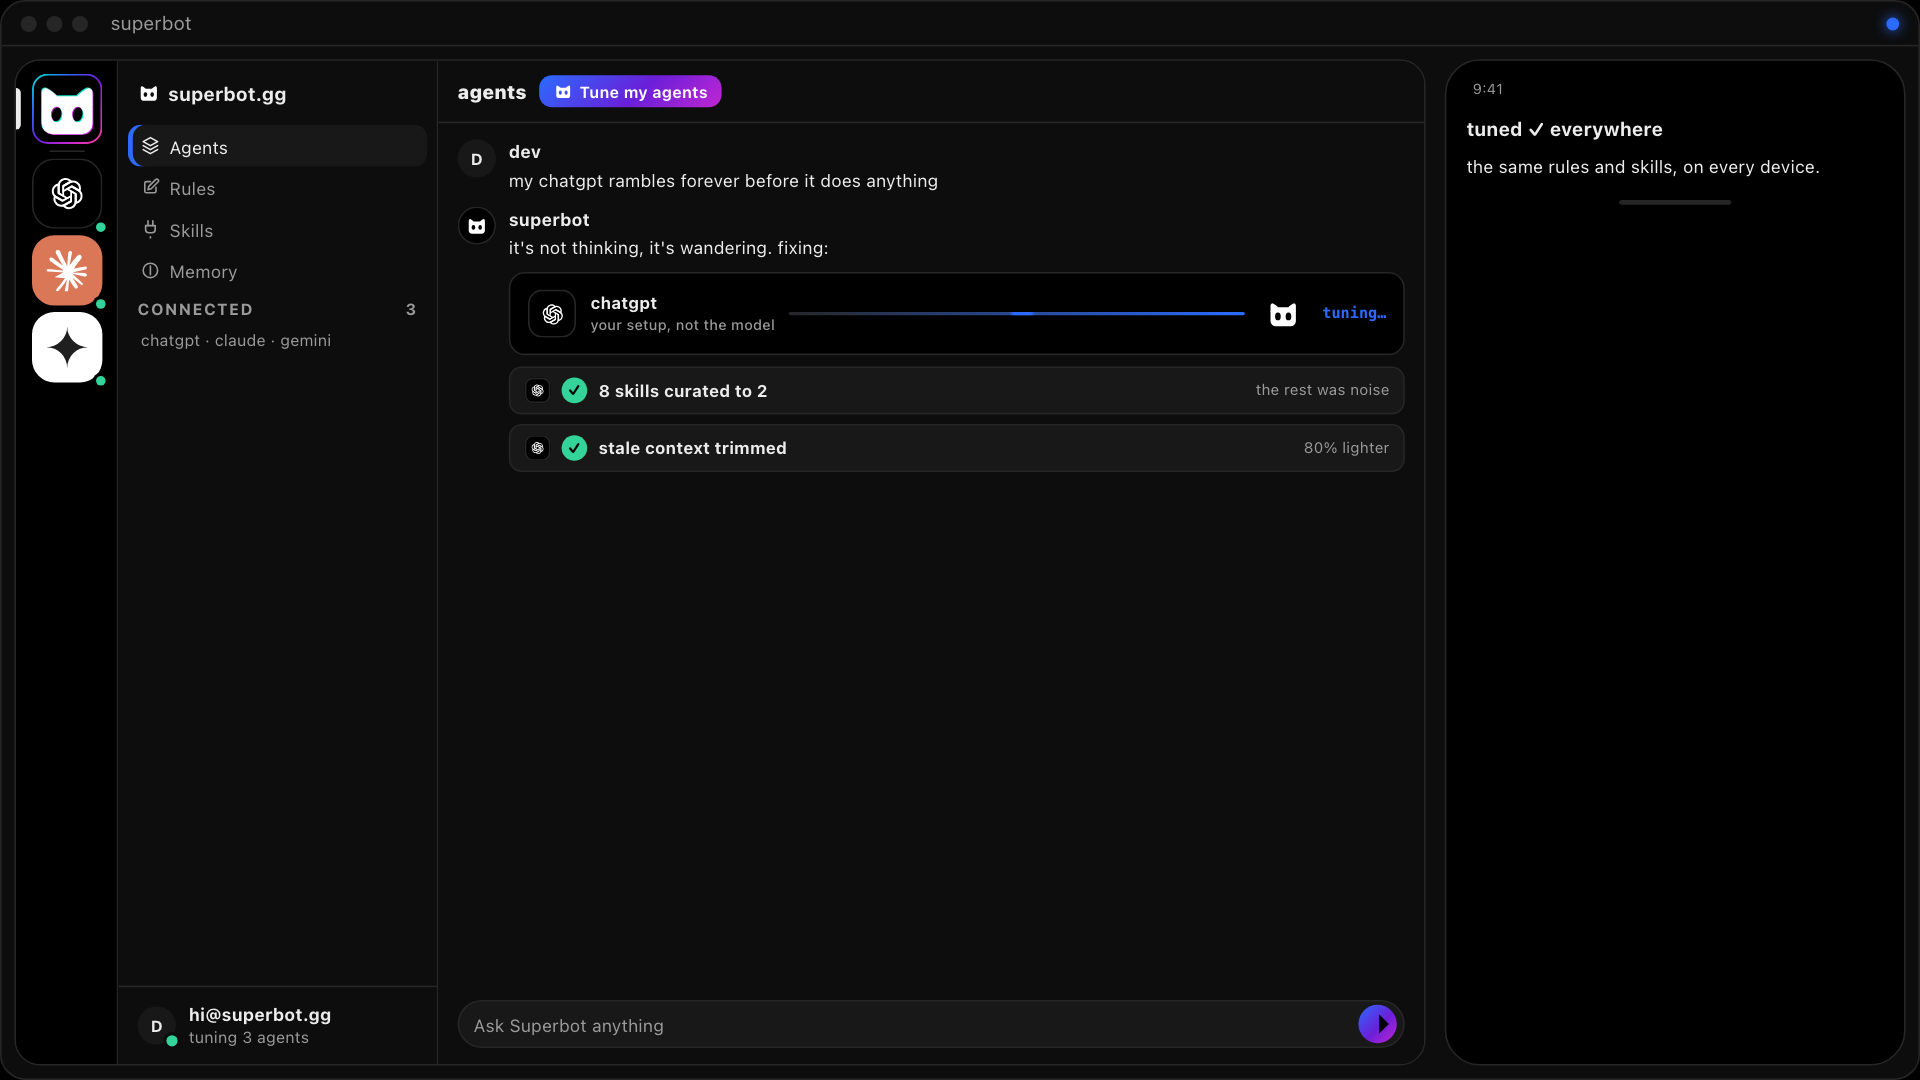
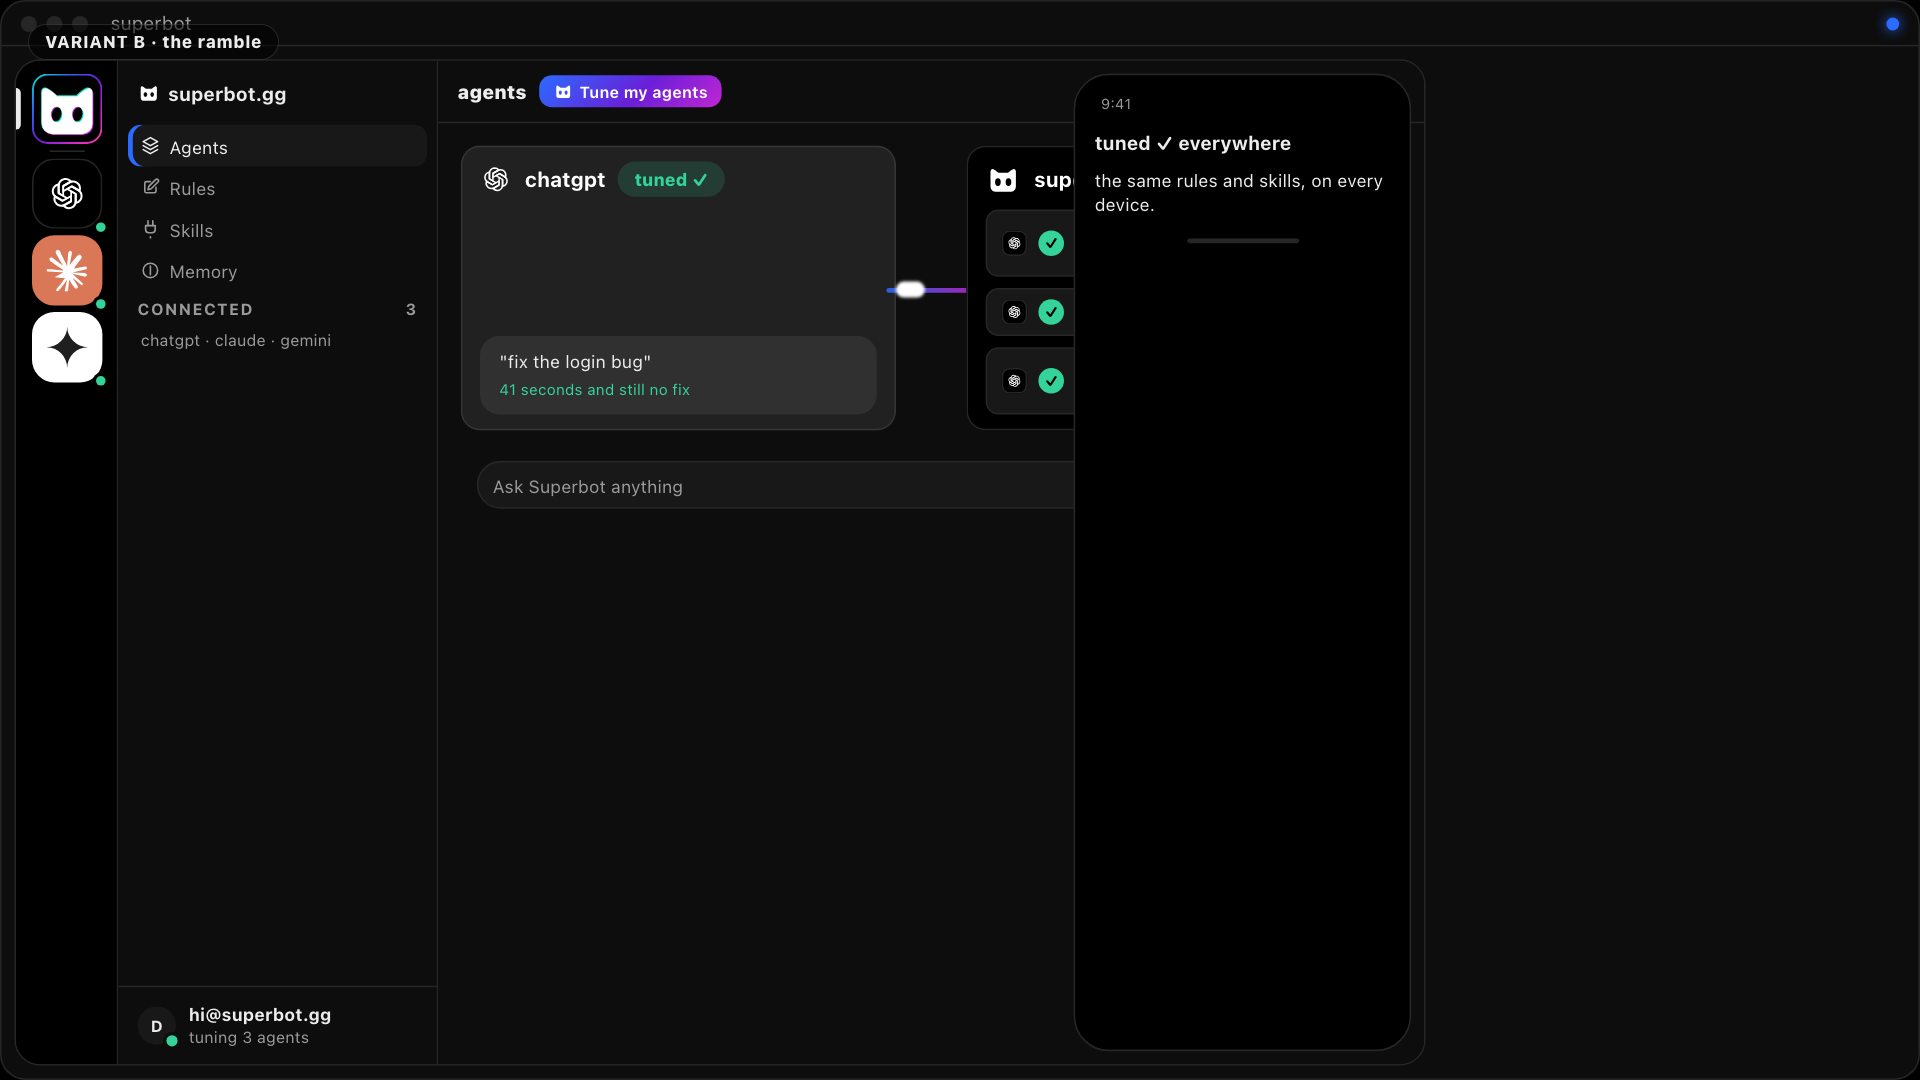
round-6 per spoken feedback ('it doesn't show superbot directly engaging', 'too much tech', 'screen showed old stuff'): the tune-up scene is now a split engage pane — a big chatgpt card (rules-ignored state, the ask quoted) wired by a flying pulse to a big superbot card where the rules/skills land o

diff --git a/animations/tuneup-rules-a-a1b6c9d3/index.html b/animations/tuneup-rules-a-a1b6c9d3/index.html
@@ -81,7 +81,7 @@ body { font-family: var(--ui); color: var(--fg); -webkit-font-smoothing: antiali
 .win-bar span { margin-left: 8px; }
 .win-bar .led { margin-left: auto; width: 8px; height: 8px; border-radius: 50%; background: var(--storm-1); box-shadow: 0 0 8px var(--storm-1); }
 .win-body { position: relative; overflow: hidden; }
-.hub { position: absolute; inset: 8px; right: calc(24% + 20px); background: var(--card); border: 1px solid var(--line); border-radius: 16px; overflow: hidden; display: grid; grid-template-columns: 64px 200px minmax(0, 1fr); font: 11px/15px var(--ui); color: var(--fg); }
+.hub { position: absolute; inset: 8px; background: var(--card); border: 1px solid var(--line); border-radius: 16px; overflow: hidden; display: grid; grid-template-columns: 64px 200px minmax(0, 1fr); font: 11px/15px var(--ui); color: var(--fg); }
 .hub > * { min-width: 0; min-height: 0; display: flex; flex-direction: column; }
 .rail { background: var(--bg); border-right: 1px solid var(--line); align-items: center; padding: 8px 0; gap: 4px; }
 .rail-item { position: relative; flex: none; width: 44px; height: 44px; border-radius: 14px; background: var(--raised); display: grid; place-items: center; color: var(--fg); }
@@ -143,11 +143,30 @@ body { font-family: var(--ui); color: var(--fg); -webkit-font-smoothing: antiali
 #h-connect.done .state { color: var(--ok); }
 #h-connect.done .wire { background: linear-gradient(90deg, var(--ok), rgba(52,211,153,.2)); }
 #h-connect.done .wire i { background: var(--ok); }
+
+/* the split engage pane: superbot visibly working inside chatgpt (owner: "show it directly engaging") */
+.engage { display: grid; grid-template-columns: 1fr 44px 1fr; align-items: stretch; gap: 0; height: 100%; padding: 4px 2px; }
+.eng-card { border-radius: 12px; padding: 10px 12px; display: flex; flex-direction: column; gap: 8px; min-width: 0; }
+.eng-card.gptside { background: #212121; box-shadow: inset 0 0 0 1px rgba(255,255,255,.09); }
+.eng-card.sb { background: #000; box-shadow: inset 0 0 0 1px var(--line); }
+.eng-head { display: flex; align-items: center; gap: 8px; font: 700 13px/16px var(--ui); color: #fff; }
+.eng-head svg { width: 20px; height: 20px; fill: #fff; }
+.eng-head img { width: 22px; height: 22px; }
+.eng-badge { display: inline-flex; align-items: center; gap: 6px; padding: 4px 10px; border-radius: 999px; font: 800 11px/14px var(--ui); width: max-content; }
+.eng-badge.bad { background: rgba(255,80,80,.14); color: #ff9d9d; }
+.eng-badge.good { background: rgba(52,211,153,.16); color: var(--ok); }
+.eng-bub { margin-top: auto; background: #303030; border-radius: 12px; padding: 8px 12px; font: 11px/15px var(--gpt-font); color: #ececec; }
+.eng-bub small { display: block; color: #afafaf; font-size: 9.5px; margin-top: 3px; }
+.eng-wire { position: relative; display: grid; place-items: center; }
+.eng-wire::before { content: ""; position: absolute; left: -6px; right: -6px; top: 50%; height: 3px; border-radius: 2px; background: linear-gradient(90deg, var(--storm-1), var(--storm-3)); opacity: .85; }
+.eng-wire i { position: absolute; top: calc(50% - 4px); width: 18px; height: 10px; border-radius: 5px; background: #fff; filter: blur(1px); }
+.eng-card.sb .tune { display: grid; gap: 7px; margin-top: 0; }
+
 .composer { flex: none; margin: 6px 12px 10px; }
 .composer .pill { display: flex; align-items: center; gap: 6px; min-height: 30px; padding: 0 4px 0 9px; border-radius: 16px; background: var(--raised); border: 1px solid var(--line); color: var(--muted); }
 .composer .ph { flex: 1; }
 .composer .send { width: 24px; height: 24px; border-radius: 50%; background: var(--storm-action); display: grid; place-items: center; color: #fff; }
-.phone { position: absolute; right: 8px; top: 8px; bottom: 8px; width: 24%; background: #000; border: 1px solid var(--line); border-radius: 22px; overflow: hidden; font: 11px/15px var(--ui); color: var(--fg); display: flex; flex-direction: column; padding: 10px 12px 8px; }
+.phone { display: none; background: #000; border: 1px solid var(--line); border-radius: 22px; overflow: hidden; font: 11px/15px var(--ui); color: var(--fg); display: flex; flex-direction: column; padding: 10px 12px 8px; }
 .ph-status { display: flex; justify-content: space-between; font-size: 9px; color: var(--muted); padding: 0 4px; }
 .ph-head { display: flex; align-items: center; gap: 8px; padding: 10px 0 8px; font-weight: 700; font-size: 12px; }
 .ph-turn { font-size: 11px; line-height: 15px; margin-bottom: 8px; }
@@ -247,21 +266,20 @@ html { --site-k: 1.6; }
             <div class="main">
               <div class="chat-head"><b>agents</b><span class="ask"><img src="assets/mark-clean.svg" alt=""/>Tune my agents</span></div>
               <div class="feed">
-                <div class="msg" id="h-user"><span class="avatar">D</span><div class="m-main"><div class="m-head"><span class="m-name">dev</span></div><div class="m-text">my chatgpt keeps breaking the rules i just gave it</div></div></div>
-                <div class="msg" id="h-bot"><span class="avatar sb"><img src="assets/mark-clean.svg" alt=""/></span><div class="m-main"><div class="m-head"><span class="m-name">superbot</span></div><div class="m-text" id="h-text"></div>
-                  <div id="h-connect">
-                    <span class="ic oa"><svg viewBox="0 0 2406 2406"><use href="#ic-openai"/></svg></span>
-                    <span class="lbl">chatgpt<small>your setup, not the model</small></span>
-                    <span class="wire"><i id="h-pulse"></i></span>
-                    <span class="ic sb"><img src="assets/mark-clean.svg" alt=""/></span>
-                    <span class="state" id="h-state">tuning…</span>
+                <div class="engage">
+                  <div class="eng-card gptside" id="eng-gpt">
+                    <div class="eng-head"><svg viewBox="0 0 2406 2406"><use href="#ic-openai"/></svg>chatgpt<span class="eng-badge bad" id="eng-badge">rules ignored</span></div>
+                    <div class="eng-bub" id="eng-bub">"add a logout button. we use tabs, zustand, never touch supabase.ts"<small id="eng-line" style="color:#ff9d9d">then it touched supabase.ts anyway</small></div>
                   </div>
-                  <div class="tune" id="h-tune">
+                  <div class="eng-wire"><i id="eng-pulse"></i></div>
+                  <div class="eng-card sb" id="eng-sb">
+                    <div class="eng-head"><img src="assets/mark-clean.svg" alt=""/>superbot</div>
+                    <div class="tune">
                     <div class="tune-row" id="t1"><span class="ai"><svg viewBox="0 0 2406 2406"><use href="#ic-openai"/></svg></span><span class="tk">✓</span><b>14 rules pulled out of chats</b><small>they were buried in scrollback</small></div>
                     <div class="tune-row" id="t2"><span class="ai"><svg viewBox="0 0 2406 2406"><use href="#ic-openai"/></svg></span><span class="tk">✓</span><b>rules enforced, not remembered</b><small>no more "got it", then ignored</small></div>
                     <div class="tune-row" id="t3"><span class="ai"><svg viewBox="0 0 2406 2406"><use href="#ic-openai"/></svg></span><span class="tk">✓</span><b>loaded into every session</b><small>every chat, every device</small></div>
                   </div>
-                </div></div>
+                </div>
               </div>
               <div class="composer"><div class="pill"><span class="ph">Ask Superbot anything</span><span class="send"><svg viewBox="0 0 24 24"><path d="M4 12h15"/><path d="m13 6 6 6-6 6"/></svg></span></div></div>
             </div>
@@ -364,8 +382,7 @@ const gpt2 = $('gpt2'), g2User = $('g2-user'), g2Bub = $('g2-bub'), g2Ai = $('g2
 const gThread = gCol.parentElement;
 const popup = $('popup'), chatbtn = $('chatbtn');
 const site = $('site'), hub = $('hub'), feedEl = hub.querySelector('.feed');
-const hUser = $('h-user'), hBot = $('h-bot'), hText = $('h-text');
-const hConnect = $('h-connect'), hPulse = $('h-pulse'), hState = $('h-state');
+const engGpt = $('eng-gpt'), engSb = $('eng-sb'), engBadge = $('eng-badge'), engPulse = $('eng-pulse'), engLine = $('eng-line');
 const tuneRows = ['t1','t2','t3'].map($);
 const card = $('card'); const cardLines = [...card.querySelectorAll('.line')];
 const end = $('end'), endFace = $('end-face'), endSlide = $('end-slide');
@@ -416,23 +433,23 @@ function renderGpt(t) {
 }
 
 function renderSite(t) {
-  const au = seg(t, B.ask, B.ask + 0.25); op(hUser, au); hUser.style.transform = `translateY(${((1 - outCubic(au)) * 6).toFixed(1)}px)`;
-  const bo = seg(t, B.reply2, B.reply2 + 0.25); op(hBot, bo); hBot.style.transform = `translateY(${((1 - outCubic(bo)) * 6).toFixed(1)}px)`;
-  const chars = t < B.reply2 ? 0 : Math.min(TUNE_REPLY.length, Math.floor((t - B.reply2) * 60));
-  hText.textContent = TUNE_REPLY.slice(0, chars);
-  // the connection card: the wire pulses while superbot works inside chatgpt, then flips to tuned
-  const cc = seg(t, B.connect, B.connect + 0.3); op(hConnect, cc);
+  const eg = seg(t, B.ask, B.ask + 0.3);
+  op(engGpt, eg); engGpt.style.transform = `translateY(${((1 - outCubic(eg)) * 8).toFixed(1)}px)`;
+  const es = seg(t, B.reply2, B.reply2 + 0.3);
+  op(engSb, es); engSb.style.transform = `translateY(${((1 - outCubic(es)) * 8).toFixed(1)}px)`;
   const done = t >= B.tuned;
-  hConnect.classList.toggle('done', done);
-  hState.textContent = done ? 'tuned ✓' : 'tuning…';
-  hPulse.style.left = done ? '100%' : `${(8 + 78 * ((t * 1.4) % 1)).toFixed(1)}%`;
-  // the rows land one at a time, slow enough to read
   tuneRows.forEach((el, i) => {
     const at = B.tune + i * B.tuneGap, p = seg(t, at, at + 0.45);
     op(el, p);
     el.style.transform = `translateY(${((1 - outQuint(p)) * 6).toFixed(1)}px)`;
   });
-  feedEl.scrollTop = feedEl.scrollHeight;
+  // the pulse flies from superbot into chatgpt while it works
+  engPulse.style.left = done ? '0%' : `${(60 - 55 * ((t * 1.4) % 1)).toFixed(1)}%`;
+  if (done) {
+    engBadge.className = 'eng-badge good';
+    engBadge.textContent = 'tuned ✓';
+    engLine.style.color = 'var(--ok)';
+  }
 }
 
 function renderGpt2(t) {

diff --git a/animations/tuneup-ramble-b-e5f2078a/index.html b/animations/tuneup-ramble-b-e5f2078a/index.html
@@ -81,7 +81,7 @@ body { font-family: var(--ui); color: var(--fg); -webkit-font-smoothing: antiali
 .win-bar span { margin-left: 8px; }
 .win-bar .led { margin-left: auto; width: 8px; height: 8px; border-radius: 50%; background: var(--storm-1); box-shadow: 0 0 8px var(--storm-1); }
 .win-body { position: relative; overflow: hidden; }
-.hub { position: absolute; inset: 8px; right: calc(24% + 20px); background: var(--card); border: 1px solid var(--line); border-radius: 16px; overflow: hidden; display: grid; grid-template-columns: 64px 200px minmax(0, 1fr); font: 11px/15px var(--ui); color: var(--fg); }
+.hub { position: absolute; inset: 8px; background: var(--card); border: 1px solid var(--line); border-radius: 16px; overflow: hidden; display: grid; grid-template-columns: 64px 200px minmax(0, 1fr); font: 11px/15px var(--ui); color: var(--fg); }
 .hub > * { min-width: 0; min-height: 0; display: flex; flex-direction: column; }
 .rail { background: var(--bg); border-right: 1px solid var(--line); align-items: center; padding: 8px 0; gap: 4px; }
 .rail-item { position: relative; flex: none; width: 44px; height: 44px; border-radius: 14px; background: var(--raised); display: grid; place-items: center; color: var(--fg); }
@@ -143,11 +143,30 @@ body { font-family: var(--ui); color: var(--fg); -webkit-font-smoothing: antiali
 #h-connect.done .state { color: var(--ok); }
 #h-connect.done .wire { background: linear-gradient(90deg, var(--ok), rgba(52,211,153,.2)); }
 #h-connect.done .wire i { background: var(--ok); }
+
+/* the split engage pane: superbot visibly working inside chatgpt (owner: "show it directly engaging") */
+.engage { display: grid; grid-template-columns: 1fr 44px 1fr; align-items: stretch; gap: 0; height: 100%; padding: 4px 2px; }
+.eng-card { border-radius: 12px; padding: 10px 12px; display: flex; flex-direction: column; gap: 8px; min-width: 0; }
+.eng-card.gptside { background: #212121; box-shadow: inset 0 0 0 1px rgba(255,255,255,.09); }
+.eng-card.sb { background: #000; box-shadow: inset 0 0 0 1px var(--line); }
+.eng-head { display: flex; align-items: center; gap: 8px; font: 700 13px/16px var(--ui); color: #fff; }
+.eng-head svg { width: 20px; height: 20px; fill: #fff; }
+.eng-head img { width: 22px; height: 22px; }
+.eng-badge { display: inline-flex; align-items: center; gap: 6px; padding: 4px 10px; border-radius: 999px; font: 800 11px/14px var(--ui); width: max-content; }
+.eng-badge.bad { background: rgba(255,80,80,.14); color: #ff9d9d; }
+.eng-badge.good { background: rgba(52,211,153,.16); color: var(--ok); }
+.eng-bub { margin-top: auto; background: #303030; border-radius: 12px; padding: 8px 12px; font: 11px/15px var(--gpt-font); color: #ececec; }
+.eng-bub small { display: block; color: #afafaf; font-size: 9.5px; margin-top: 3px; }
+.eng-wire { position: relative; display: grid; place-items: center; }
+.eng-wire::before { content: ""; position: absolute; left: -6px; right: -6px; top: 50%; height: 3px; border-radius: 2px; background: linear-gradient(90deg, var(--storm-1), var(--storm-3)); opacity: .85; }
+.eng-wire i { position: absolute; top: calc(50% - 4px); width: 18px; height: 10px; border-radius: 5px; background: #fff; filter: blur(1px); }
+.eng-card.sb .tune { display: grid; gap: 7px; margin-top: 0; }
+
 .composer { flex: none; margin: 6px 12px 10px; }
 .composer .pill { display: flex; align-items: center; gap: 6px; min-height: 30px; padding: 0 4px 0 9px; border-radius: 16px; background: var(--raised); border: 1px solid var(--line); color: var(--muted); }
 .composer .ph { flex: 1; }
 .composer .send { width: 24px; height: 24px; border-radius: 50%; background: var(--storm-action); display: grid; place-items: center; color: #fff; }
-.phone { position: absolute; right: 8px; top: 8px; bottom: 8px; width: 24%; background: #000; border: 1px solid var(--line); border-radius: 22px; overflow: hidden; font: 11px/15px var(--ui); color: var(--fg); display: flex; flex-direction: column; padding: 10px 12px 8px; }
+.phone { display: none; background: #000; border: 1px solid var(--line); border-radius: 22px; overflow: hidden; font: 11px/15px var(--ui); color: var(--fg); display: flex; flex-direction: column; padding: 10px 12px 8px; }
 .ph-status { display: flex; justify-content: space-between; font-size: 9px; color: var(--muted); padding: 0 4px; }
 .ph-head { display: flex; align-items: center; gap: 8px; padding: 10px 0 8px; font-weight: 700; font-size: 12px; }
 .ph-turn { font-size: 11px; line-height: 15px; margin-bottom: 8px; }
@@ -248,21 +267,20 @@ html { --site-k: 1.6; }
             <div class="main">
               <div class="chat-head"><b>agents</b><span class="ask"><img src="assets/mark-clean.svg" alt=""/>Tune my agents</span></div>
               <div class="feed">
-                <div class="msg" id="h-user"><span class="avatar">D</span><div class="m-main"><div class="m-head"><span class="m-name">dev</span></div><div class="m-text">my chatgpt rambles forever before it does anything</div></div></div>
-                <div class="msg" id="h-bot"><span class="avatar sb"><img src="assets/mark-clean.svg" alt=""/></span><div class="m-main"><div class="m-head"><span class="m-name">superbot</span></div><div class="m-text" id="h-text"></div>
-                  <div id="h-connect">
-                    <span class="ic oa"><svg viewBox="0 0 2406 2406"><use href="#ic-openai"/></svg></span>
-                    <span class="lbl">chatgpt<small>your setup, not the model</small></span>
-                    <span class="wire"><i id="h-pulse"></i></span>
-                    <span class="ic sb"><img src="assets/mark-clean.svg" alt=""/></span>
-                    <span class="state" id="h-state">tuning…</span>
+                <div class="engage">
+                  <div class="eng-card gptside" id="eng-gpt">
+                    <div class="eng-head"><svg viewBox="0 0 2406 2406"><use href="#ic-openai"/></svg>chatgpt<span class="eng-badge bad" id="eng-badge">rambling</span></div>
+                    <div class="eng-bub" id="eng-bub">"fix the login bug"<small id="eng-line" style="color:#ff9d9d">41 seconds and still no fix</small></div>
                   </div>
-                  <div class="tune" id="h-tune">
+                  <div class="eng-wire"><i id="eng-pulse"></i></div>
+                  <div class="eng-card sb" id="eng-sb">
+                    <div class="eng-head"><img src="assets/mark-clean.svg" alt=""/>superbot</div>
+                    <div class="tune">
                     <div class="tune-row" id="t1"><span class="ai"><svg viewBox="0 0 2406 2406"><use href="#ic-openai"/></svg></span><span class="tk">✓</span><b>8 skills curated to 2</b><small>the rest was noise</small></div>
                     <div class="tune-row" id="t2"><span class="ai"><svg viewBox="0 0 2406 2406"><use href="#ic-openai"/></svg></span><span class="tk">✓</span><b>stale context trimmed</b><small>80% lighter</small></div>
                     <div class="tune-row" id="t3"><span class="ai"><svg viewBox="0 0 2406 2406"><use href="#ic-openai"/></svg></span><span class="tk">✓</span><b>answer style: straight to it</b><small>no more warm-up essays</small></div>
                   </div>
-                </div></div>
+                </div>
               </div>
               <div class="composer"><div class="pill"><span class="ph">Ask Superbot anything</span><span class="send"><svg viewBox="0 0 24 24"><path d="M4 12h15"/><path d="m13 6 6 6-6 6"/></svg></span></div></div>
             </div>
@@ -365,8 +383,7 @@ const gpt2 = $('gpt2'), g2User = $('g2-user'), g2Bub = $('g2-bub'), g2Ai = $('g2
 const gThread = gCol.parentElement;
 const popup = $('popup'), chatbtn = $('chatbtn');
 const site = $('site'), hub = $('hub'), feedEl = hub.querySelector('.feed');
-const hUser = $('h-user'), hBot = $('h-bot'), hText = $('h-text');
-const hConnect = $('h-connect'), hPulse = $('h-pulse'), hState = $('h-state');
+const engGpt = $('eng-gpt'), engSb = $('eng-sb'), engBadge = $('eng-badge'), engPulse = $('eng-pulse'), engLine = $('eng-line');
 const tuneRows = ['t1','t2','t3'].map($);
 const card = $('card'); const cardLines = [...card.querySelectorAll('.line')];
 const end = $('end'), endFace = $('end-face'), endSlide = $('end-slide');
@@ -420,23 +437,23 @@ function renderGpt(t) {
 }
 
 function renderSite(t) {
-  const au = seg(t, B.ask, B.ask + 0.25); op(hUser, au); hUser.style.transform = `translateY(${((1 - outCubic(au)) * 6).toFixed(1)}px)`;
-  const bo = seg(t, B.reply2, B.reply2 + 0.25); op(hBot, bo); hBot.style.transform = `translateY(${((1 - outCubic(bo)) * 6).toFixed(1)}px)`;
-  const chars = t < B.reply2 ? 0 : Math.min(TUNE_REPLY.length, Math.floor((t - B.reply2) * 60));
-  hText.textContent = TUNE_REPLY.slice(0, chars);
-  // the connection card: the wire pulses while superbot works inside chatgpt, then flips to tuned
-  const cc = seg(t, B.connect, B.connect + 0.3); op(hConnect, cc);
+  const eg = seg(t, B.ask, B.ask + 0.3);
+  op(engGpt, eg); engGpt.style.transform = `translateY(${((1 - outCubic(eg)) * 8).toFixed(1)}px)`;
+  const es = seg(t, B.reply2, B.reply2 + 0.3);
+  op(engSb, es); engSb.style.transform = `translateY(${((1 - outCubic(es)) * 8).toFixed(1)}px)`;
   const done = t >= B.tuned;
-  hConnect.classList.toggle('done', done);
-  hState.textContent = done ? 'tuned ✓' : 'tuning…';
-  hPulse.style.left = done ? '100%' : `${(8 + 78 * ((t * 1.4) % 1)).toFixed(1)}%`;
-  // the rows land one at a time, slow enough to read
   tuneRows.forEach((el, i) => {
     const at = B.tune + i * B.tuneGap, p = seg(t, at, at + 0.45);
     op(el, p);
     el.style.transform = `translateY(${((1 - outQuint(p)) * 6).toFixed(1)}px)`;
   });
-  feedEl.scrollTop = feedEl.scrollHeight;
+  // the pulse flies from superbot into chatgpt while it works
+  engPulse.style.left = done ? '0%' : `${(60 - 55 * ((t * 1.4) % 1)).toFixed(1)}%`;
+  if (done) {
+    engBadge.className = 'eng-badge good';
+    engBadge.textContent = 'tuned ✓';
+    engLine.style.color = 'var(--ok)';
+  }
 }
 
 function renderGpt2(t) {
